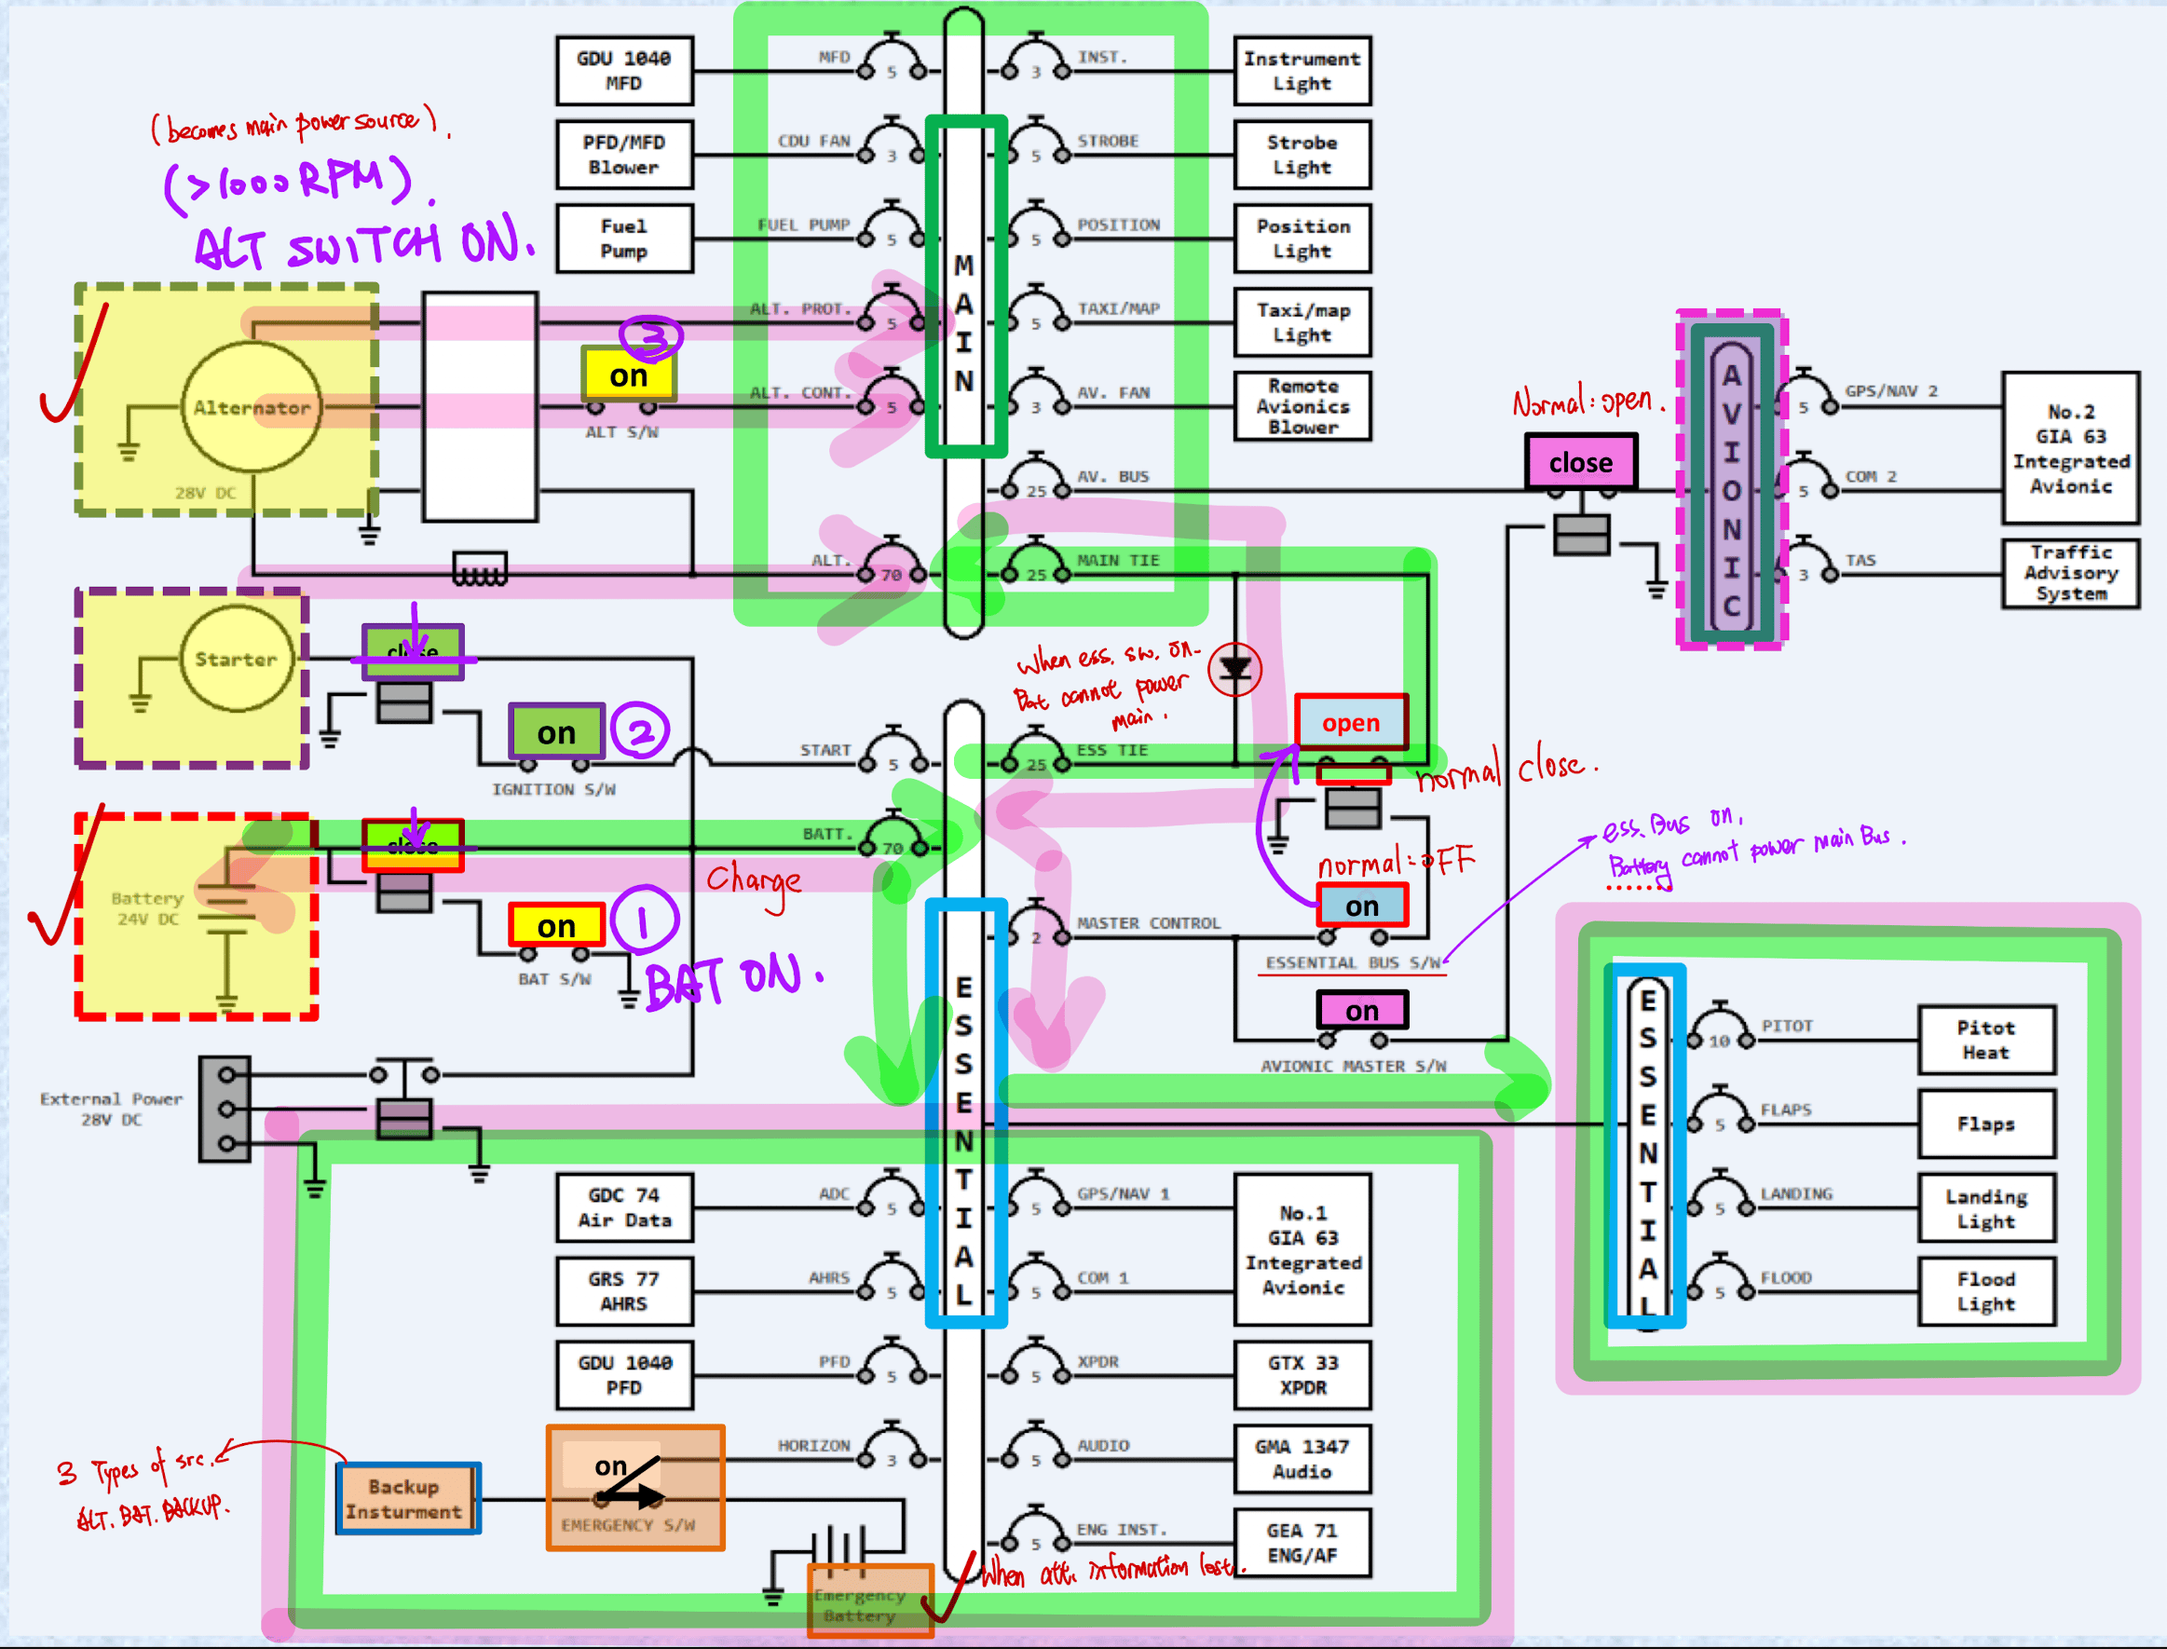
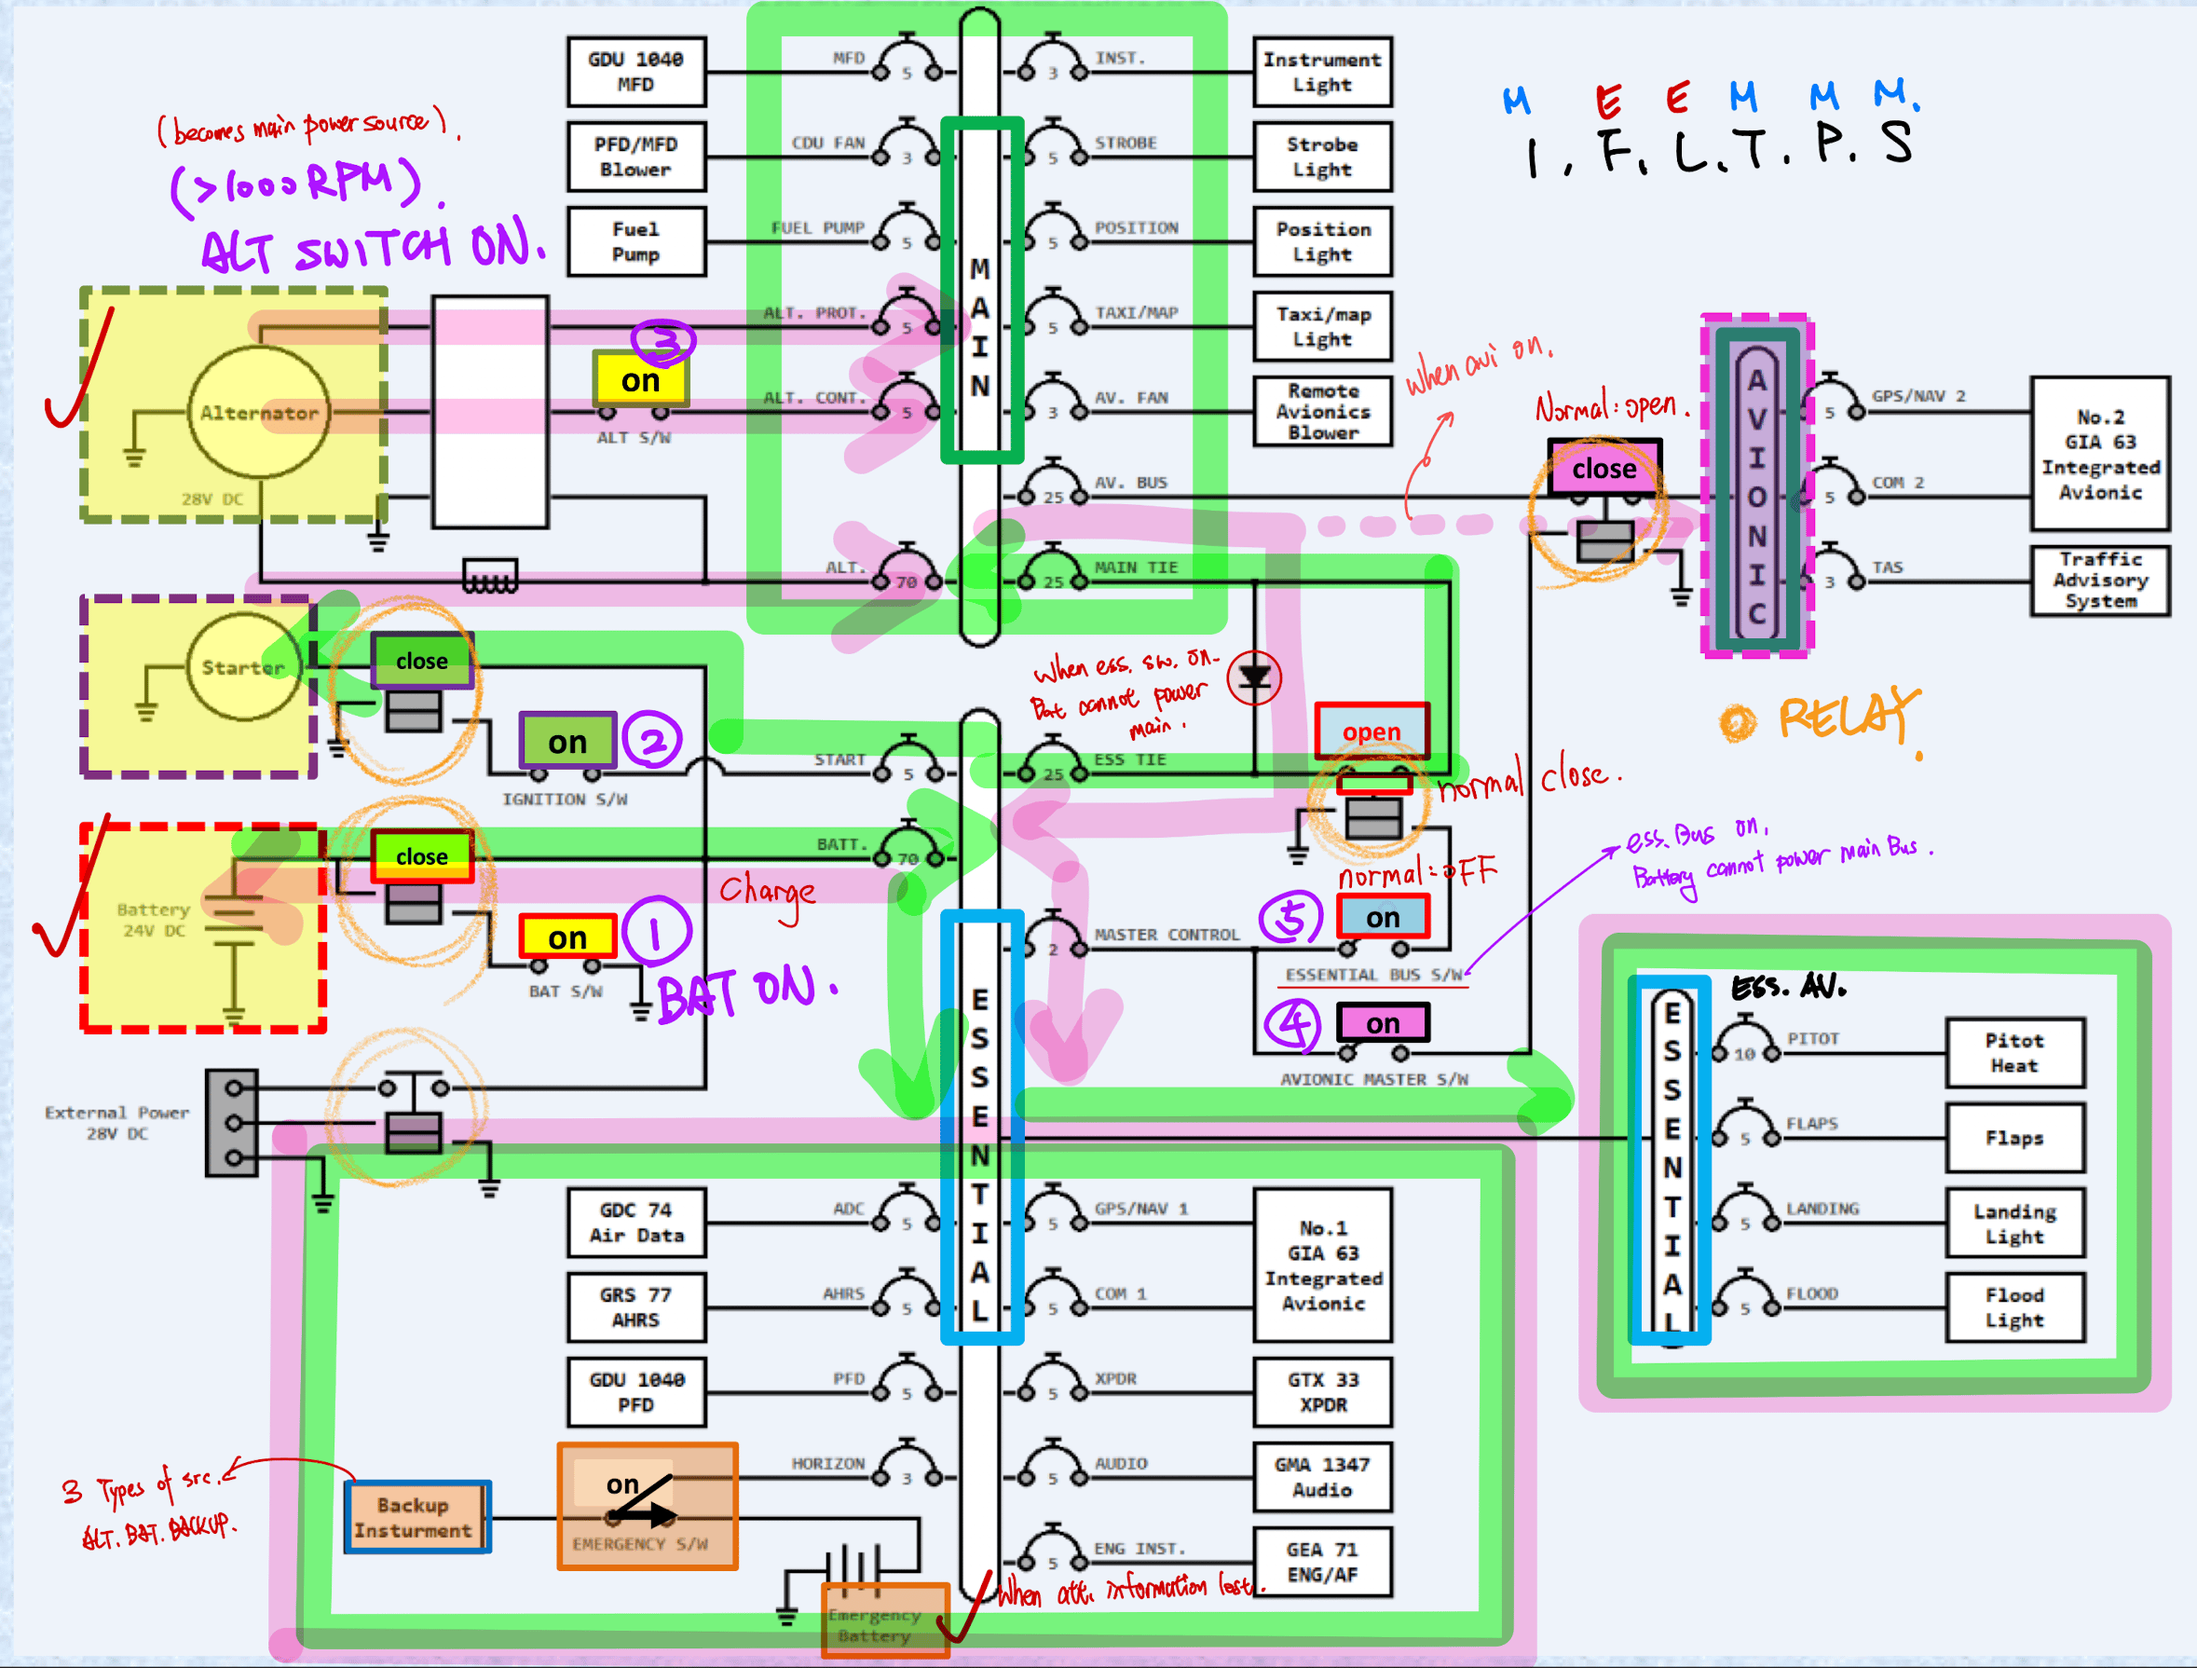
ee

diff --git a/layouts/_partials/custom/head-end.html b/layouts/_partials/custom/head-end.html
@@ -175,11 +175,12 @@ end }}
     var topics = [
       { label: "COM", slug: "com" },
       { label: "FAR/AIM", slug: "far" },
-      { label: "GN|RN & IR", slug: "gn" },
-      { label: "INS & EE|RN2", slug: "ins" },
-      { label: "MAT", slug: "mat" },
-      { label: "MET", slug: "met" },
-      { label: "PERF", slug: "perf" }
+      { label: "JOHNNY", slug: "gn" },
+      { label: "SAM", slug: "ins" },
+      { label: "WAYNE", slug: "mat" },
+      { label: "BECKY", slug: "met" },
+      { label: "DANNY", slug: "perf" },
+      { label: "SEAN", slug: "pof" }
     ];
 
     var path = window.location.pathname;

diff --git a/assets/css/custom.css b/assets/css/custom.css
@@ -170,6 +170,12 @@ td li {
   margin-block-end: 3px !important;
 }
 
+/* blockquote */
+blockquote {
+  margin-top: 0px !important;
+  margin-bottom: 1.5rem !important;
+}
+
 
 /* =====================
    Fix oversized list spacing in content
@@ -354,4 +360,9 @@ article.hx\:mx-auto {
 
 .dark #header-topic-divider {
   background-color: #404040;
+}
+
+/* Collapse the TOC column entirely when it has no items */
+.hextra-toc:empty {
+  display: none !important;
 }

diff --git a/content/docs/INS/ins-final.md b/content/docs/INS/ins-final.md
@@ -2,10 +2,11 @@
 title: "@INS FINAL"
 ---
 
-## Static Discharge System
-- Static electricity is created by **friction between aircraft and surrounding air.**
+## Static Discharger
+- Static electricity is created by **friction between aircraft and surrounding air.** Generated on the **surface** of the **non-conductive** materials.
 - Two main parts, **the electrical bonding system** and the **surface static discharging system**. 
-- Location in DA40
+- Static discharger is **low resistance and attracts high current.**
+- Locations in DA40
 	- LH **wing tip**, trailing edge x2
 	- RH **wing tip** trailing edge x2
 	- LH **horizontal tail tip**, trailing edge x1
@@ -15,20 +16,40 @@ title: "@INS FINAL"
 	- connections **from the fueling truck to the airplane must be established**
 	- **Aircraft is earthed**
 
+## Refueling 
+- Connect the refueling truck to the airplane is required.
+- Aircraft is earthed.
+- Refueling bowser is earthed.
+
+## Aircraft bonding
+- Each electrical consumer inside an aircraft is not only connected to a busbar but also to the fuselage through an additional cable.
+- Aircraft **BODY** used as a ground connection:
+	- Reducing cable connections {{< tip "Wayne: 這樣就不會有很多線" >}}
+	- Reducing electronic interference
+	- Supplying the entire aircraft with *voltage reference* 
+
 ## Ohm's Law (V = IR)
  The current that passes through a wire is proportional to the voltage applied across it, provided the resistance/temperature remain constant. 
 
 ## Relay
-- The heart of a relay is an **electromagnet** (a coil of wire that becomes a temporary magnet when electricity flows through it) .
-- **switch operated by a relatively small electric current that can turn on or off a much larger electric current.** 
+- A relay is an **electromagnet** switch that control a higher current with a relatively small current.
+- Does *not* connect to the higher current → **Safer**
 
 ## Circuit Breaker
+- Thermal CBs are based on **bi-metallic spring**. When the current is too high, the spring bends through the impact of heat.
+- CB label shows the maximum allowable current.
+### CB Reset Rules - FTA FCTM 
 - In flight, 
 	- Flight crew **reset of a tripped circuit breaker is not recommended.** 
 	- However, a tripped circuit breaker **may be reset once**, after a short cooling period (approximately **2 minute**) **if no smoke is detected**, if in the judgment of the PIC, the situation resulting from the circuit breaker trip has a significant adverse effect on safety. 
 - On the ground,
 	- fight crew reset of tripped circuit breaker **should only be done after maintenance.**
 	-  Flight crew cycling of a Circuit breaker to clear a non-normal condition is not recommended, **unless directed by a non-normal checklist.** 
+
+
+## Diode
+- Usually made of **semiconductor** elements, usually **silicon**, wth 2 ends.
+- Diode is a device that only allows current to flow in **one-way direction.**
 
 ## Battery
 - Charging Battery: Connect the battery to a **DC** charge unit. **Plus to plus and minus to minus.**
@@ -40,7 +61,7 @@ title: "@INS FINAL"
 	- Should **fill up with distilled water.**
 - A value for the energy that can be stored in a battery is called the capacity of the battery. The unit is **Ampere-hours (Ah) .**
 - Battery capacity may drop as the temperature decreases.
-- **DA 40 uses 13.6 Ah, 24 V battery at the right forward side of the firewall.**
+- **DA 40 uses 13.6 Ah, 24 V battery at the ==right forward side== of the firewall.**
 	- a. power for **starter/GND operation prior to engine starting**
 	- b. **absorption of voltage and amperage spikes** in  the electrical system
 	- c. reserve for **emergencies** should alternator fails
@@ -104,13 +125,13 @@ Types of reverse current protection:
 How do identify: **Red ALTERNATOR message would show on bottom right of PFD, and ammeter shows 0.**
 1. Circuit breakers............Check in
 2. ALT switch............OFF, then ON\
-*If alternator does not come back*
+*--- If alternator does not come back ---*
 3. ESS BUS switch............ON
 4. XPDR Circuit Breaker............PULL\
-*Transponder and ADS-B out will be unavailable*
+*--- Transponder and ADS-B out will be unavailable ---*
 5. Switch off any non-essential electrical loads
 6. Land within 30 minutes\
-*If PFD attitude lost prior to landing*
+*--- If PFD attitude lost prior to landing ---*
 7. HORIZON EMERGENCY Switch............ON
 <!--quiz-end-->
 
@@ -120,7 +141,7 @@ How do identify: **Red ALTERNATOR message would show on bottom right of PFD, and
 1. Engine speed............1,200 RPM {{< tip "around 30 AMPS" >}}
 2. **Electrical equipment............OFF** {{< tip "troubleshooting to make sure not the electrical equipment is the problem." >}}
 3. Ammeter............Check\
-*if the caution light does not extinguish, ammeter flashes and reads zero*\
+*--- If the caution light does not extinguish, ammeter flashes and reads zero ---*\
 → Terminate flight preparation.
 <!--quiz-end-->
 
@@ -130,7 +151,7 @@ How do identify: **Red ALTERNATOR message would show on bottom right of PFD, and
 If a voltage in the upper red sector (**above 32 Volts**) is indicated
 1. **Essential bus............ON**, if installed
 2. Master Switch (ALT)............OFF\
-**WARNING: Leave (Avionic) Master switch (BAT) ON!**
+**WARNING: Leave BAT switch and Avionics Master ON**
 3. Equipment that is not needed, in particular Pitot heating............OFF
 4. Land on the nearest appropriate *airfield*
 <!--quiz-end-->
@@ -225,13 +246,21 @@ Before entering or crossing any runway, ensure **landing, taxi, position, and st
 
 ## DA40 Bus
 ![](/images/bus.png "")
-1. BAT ON: **Battery{{< tip "24V DC" >}} powers essential bus, main bus, avionics**
-2. STARTER ON: **Battery powers starter motor**\
-*WHEN > 1,000 RPM*
+1. BAT ON: **Battery{{< tip "24V DC" >}} powers Essential Bus, Main Bus**
+2. STARTER ON: **Battery powers Starter motor**\
+*--- WHEN > 1,000 RPM ---*
 3. ALT ON: **Alternator{{< tip "28V DC" >}} becomes the main power source**. Since Alternator has a greater voltage than the battery, it becomes the main power source and also charges the battery.
-4. AVIONICS ON: When Avionics switch is ON, *relay connects main bus and avionics bus*. **Current can flow ==from main bus to avionics bus== for GIA63 and TAS600** *(GPS/NAV2, COM2, TAS)*\
-*WHEN ALTERNATOR FAILS*
-5. **ESS ON**: 
-	- When alternator fails, essential bus switch on,**MAIN TIE / ESS TIE CIRCUIT OPEN**, Battery take over. A **diode** is set between main tie and essential tie so that current cannot flow through main bus, thus only essential bus is powered.\
-*WHEN BATTERY DIES*
+4. AVIONICS ON: When Avionics switch is ON, **relay close and  connects main bus and avionics bus**. Current can flow from **main bus to avionics bus** to GIA63 and TAS600 *(GPS/NAV2, COM2, TAS)*\
+*--- WHEN ALTERNATOR FAILS ---*
+5. **ESS ON**: When alternator fails, essential bus switch on,**MAIN TIE / ESS TIE CIRCUIT OPEN**, Battery take over. A **diode** is set between main tie and essential tie so that current cannot flow through main bus, thus only essential bus is powered.\
+*--- WHEN BATTERY DIES ---*
 6. **Emergency Switch ON**: Emergency Battery powers up the backup instruments *(STBY ATT GYRO)*
+
+{{< callout >}}
+**RELAYS IN DA40**
+1. **BAT** ON → Relay **CLOSE**
+2. **STARTER** ON → Relay **CLOSE**
+3. **AVIONICS** ON → Relay **CLOSE**
+4. **ESS** ON → Relay **OPEN**
+5. *External Power Relay: **Close** when connected to external power source correctly. Used for starting of APU and engines, maintenance, etc.*
+{{</ callout >}}
